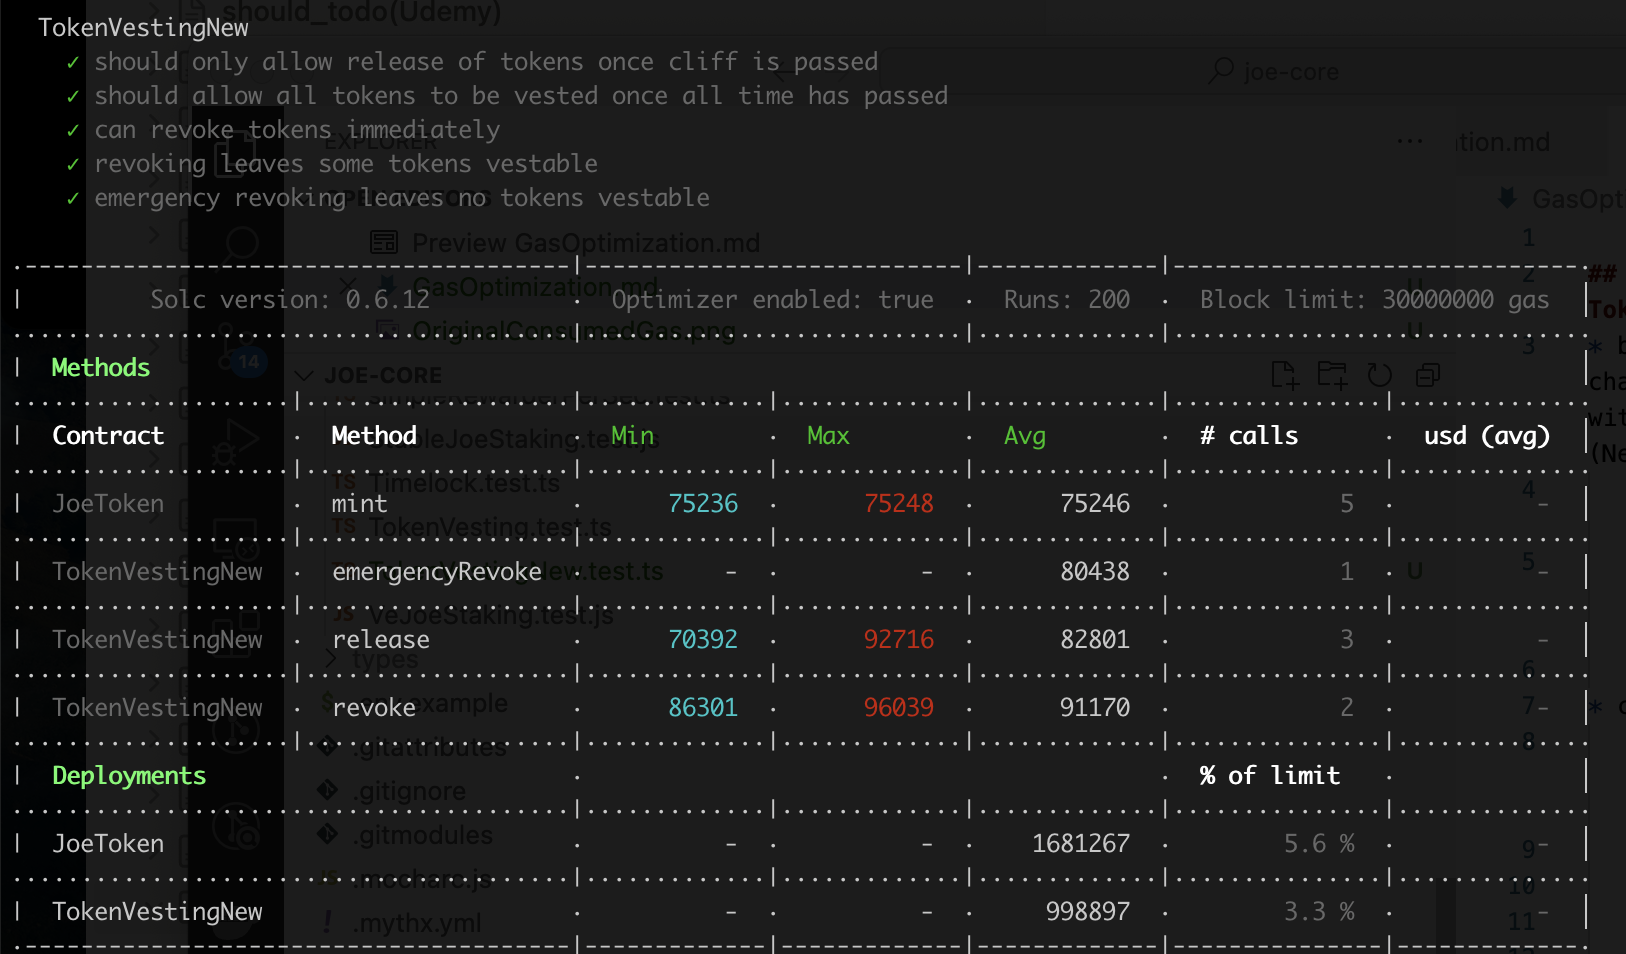
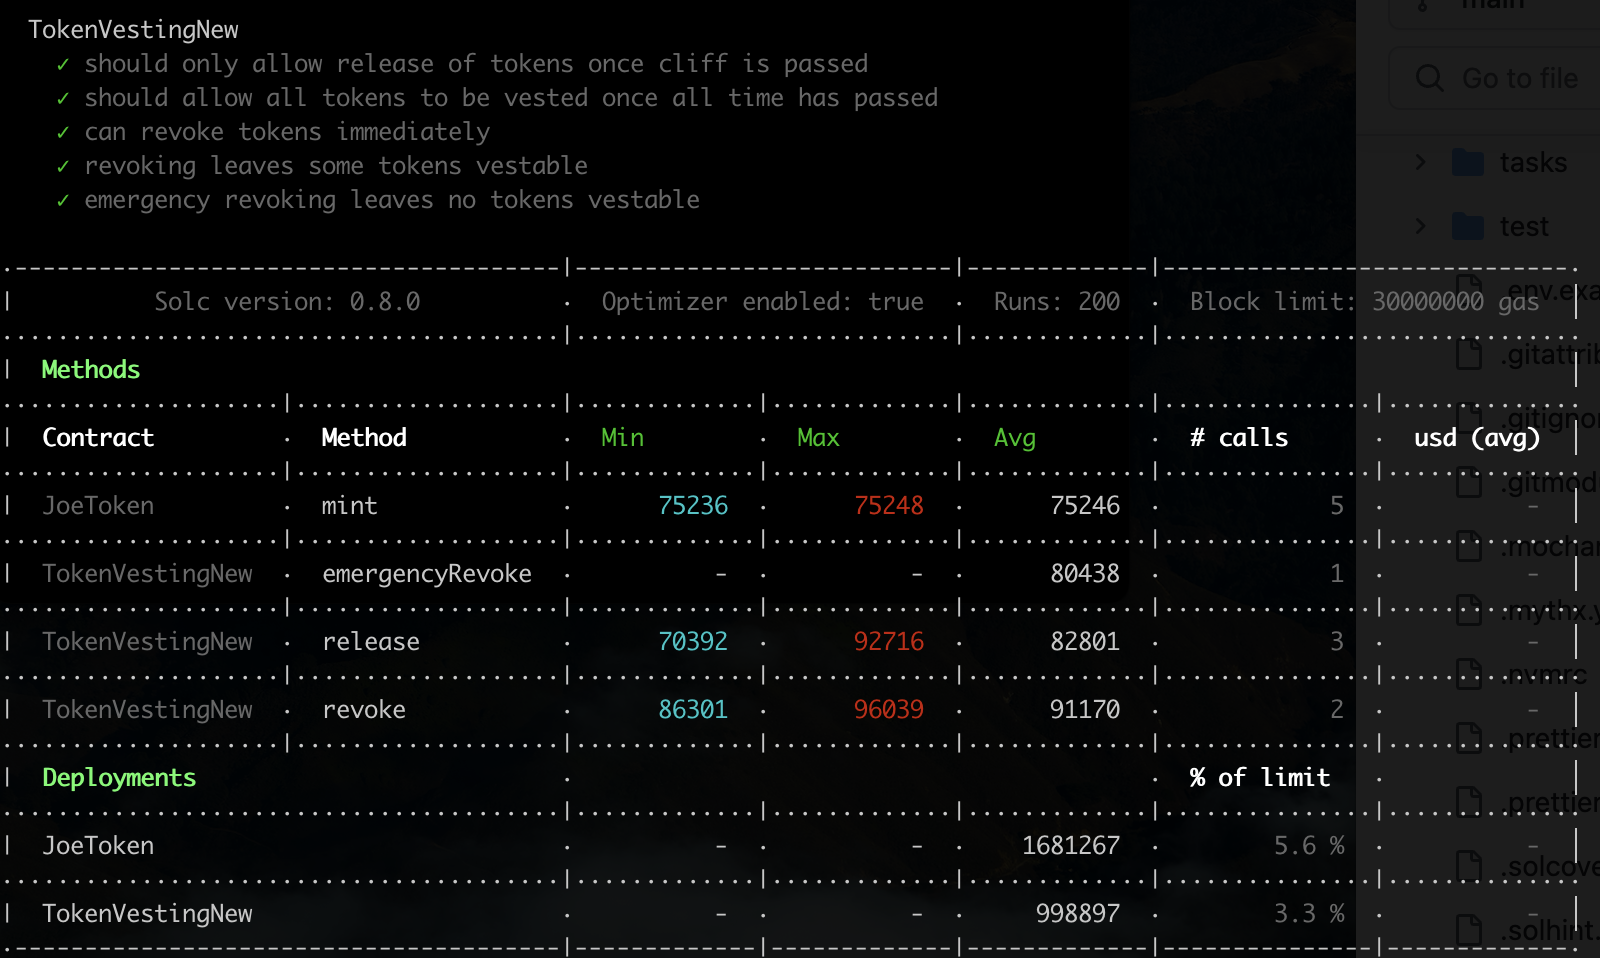
correct some basic info

diff --git a/joe-core/hardhat.config.ts b/joe-core/hardhat.config.ts
@@ -263,7 +263,7 @@ const config: HardhatUserConfig = {
   solidity: {
     compilers: [
       {
-        version: "0.6.12",
+        version: "0.8.0",
         settings: {
           optimizer: {
             enabled: true,
@@ -272,7 +272,7 @@ const config: HardhatUserConfig = {
         },
       },
       {
-        version: "0.8.0",
+        version: "0.6.12",
         settings: {
           optimizer: {
             enabled: true,

diff --git a/synthetix/hardhat.config.js b/synthetix/hardhat.config.js
@@ -29,12 +29,6 @@ module.exports = {
 	solidity: {
 		compilers: [
 			{
-				version: '0.4.25',
-			},
-			{
-				version: '0.5.16',
-			},
-			{
 				version: '0.8.14',
 				settings: {
 					optimizer: {
@@ -42,6 +36,12 @@ module.exports = {
 						runs: 200,
 					},
 				},
+			},
+			{
+				version: '0.4.25',
+			},
+			{
+				version: '0.5.16',
 			},
 		],
 	},

diff --git a/synthetix/GasOptimization.md b/synthetix/GasOptimization.md
@@ -1,6 +1,8 @@
 ## TARGET SMART CONTRACT
 *  [StakingRewardsNew](contracts/StakingRewardsNew.sol) based on [StakingRewards](contracts/StakingRewards.sol)
-
+*  test file
+    * REPORT_GAS=true npx hardhat test test/contracts/StakingRewardsNew.js
+    * [StakingRewardsNew.js](test/contracts/StakingRewardsNew.js)
 ## CHANGED POINTS FOR CONVERTING COMPILER VERSION 
 * [changed points](./AdjustCompilerVersion.md) 
 
@@ -12,7 +14,8 @@
 ## PROTOCOL INTRODUCTION
 
 ## GAS COST(CURRENT)
-- OriginalConsumedGas to check again (StakingRewardsNew using ^0.8.0, others not using )
+- OriginalConsumedGas
+  * ***As StakingRewardsNew based on many contracts(I have delete these contracts in the blew table) which use another compiler version(0.5.16), the blew compiler version shows 0.8.14, but the optimizer setting{ enabled: true, runs: 200 } doesn't show.  perhaps there are some compitable problem with these. The blew just give rough estimatation***
   <img src="OriginalConsumedGas.png" alt="external_result" width="1000"/>
 
 

diff --git a/joe-core/GasOptimization.md b/joe-core/GasOptimization.md
@@ -1,6 +1,10 @@
 ## TARGET SMART CONTRACT
 *  [TokenVestingNew](contracts/TokenVestingNew.sol) based on [TokenVesting](contracts/TokenVesting.sol)
-*  yarn test:gas test/TokenVestingNew.test.ts  [TokenVestingNew.test.ts](test/TokenVestingNew.test.ts)
+*  test file
+    * yarn test:gas test/TokenVestingNew.test.ts
+    * [TokenVestingNew.test.ts](test/TokenVestingNew.test.ts)
+
+
 ## CHANGED POINTS FOR CONVERTING COMPILER VERSION 
 1. solidity compiler chaning from ^0.6.0 to ^0.8.0
 2. Using a new version of Ownable, SafeERC20, which is OpenZeppelin Contracts v4.4.1

diff --git a/thirdweb_contracts/GasOptimization.md b/thirdweb_contracts/GasOptimization.md
@@ -1,6 +1,8 @@
 ## TARGET SMART CONTRACT
 *  [Staking721.sol](contracts/extension/Staking721.sol)
-*  forge gas test --mc StakingExtensionTest TODO CHECK   [StakingExtension.t.sol](./src/test/sdk/extension/StakingExtension.t.sol)
+*  test file
+    * forge gas test --mc StakingExtensionTest TODO CHECK
+    * [StakingExtension.t.sol](./src/test/sdk/extension/StakingExtension.t.sol)
 
 ## ENVIRONMENT INFO
 * evm version london

diff --git a/README.md b/README.md
@@ -3,6 +3,6 @@
 
 1. [Synthetix Staking Reward](synthetix/GasOptimization.md)
 2. [Trader Joe Vesting Contract](joe-core/GasOptimization.md)
-3. [LooksRare Token Distributor](looksRar_contracts-token-stakinge/GasOptimization.md)
+3. [LooksRare Token Distributor](looksRar_contracts-token-staking/GasOptimization.md)
 4. [Thirdweb ERC721 Staking](thirdweb_contracts/GasOptimization.md)
 

diff --git a/looksRar_contracts-token-staking/GasOptimization.md b/looksRar_contracts-token-staking/GasOptimization.md
@@ -1,6 +1,8 @@
 ## TARGET SMART CONTRACT
 *  [tokenDistributor](contracts/TokenDistributor.sol)
-*  yarn test test/tokenDistributor.test.ts  [tokenDistributor.test.ts](test/tokenDistributor.test.ts)
+*  test file 
+   * yarn test test/tokenDistributor.test.ts  
+   * [tokenDistributor.test.ts](test/tokenDistributor.test.ts)
 
 ## ENVIRONMENT INFO
 * evm version london

diff --git a/synthetix/AdjustCompilerVersion.md b/synthetix/AdjustCompilerVersion.md
@@ -38,8 +38,6 @@
 * Acutally compiler version version: '0.8.14'        
 
 
-* test file
-    * npx hardhat test test/contracts/StakingRewardsNew.js
-    [StakingRewardsNew.js](test/contracts/StakingRewardsNew.js)
+
 
 
